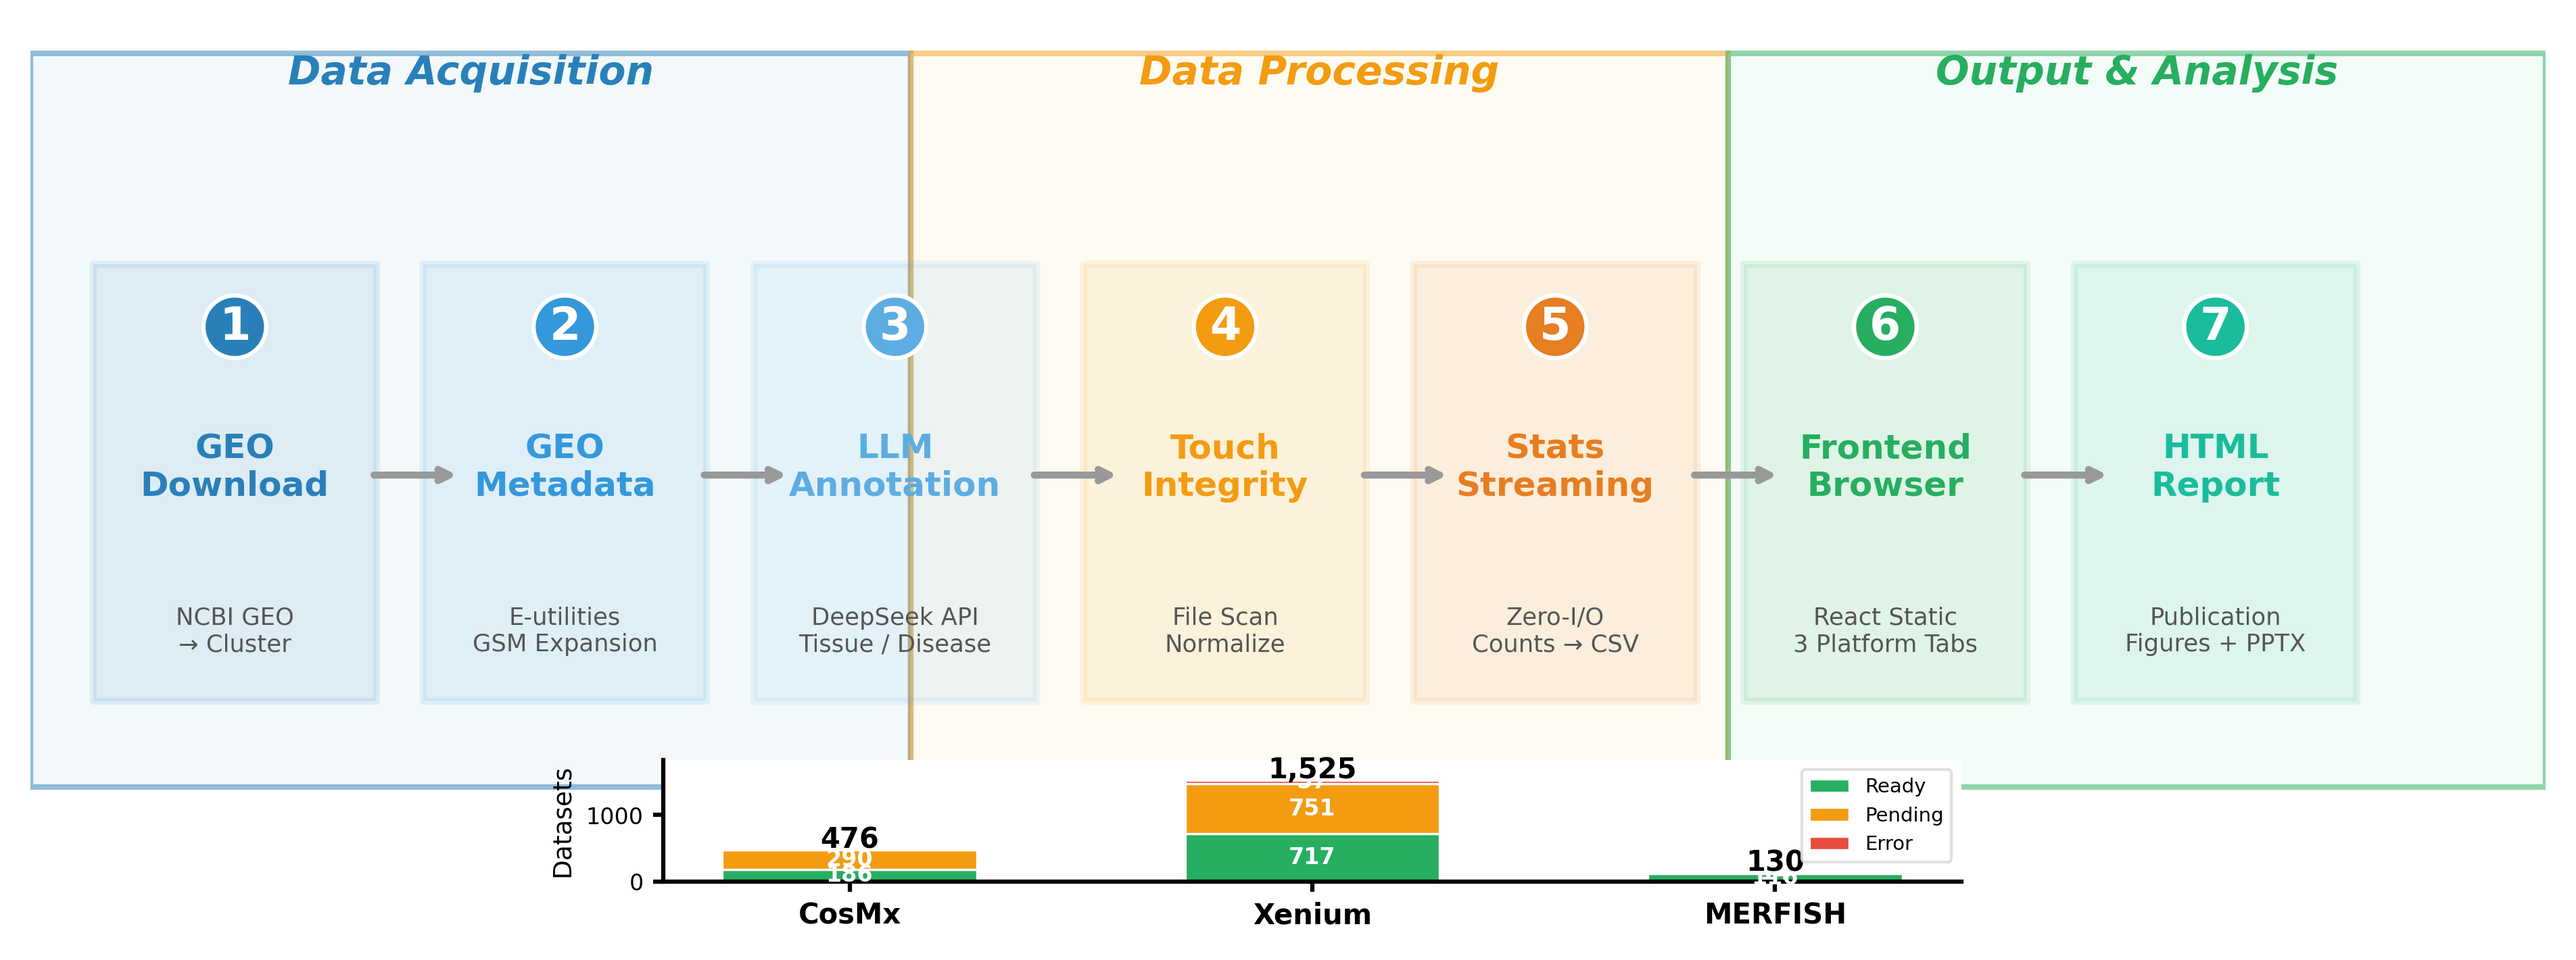
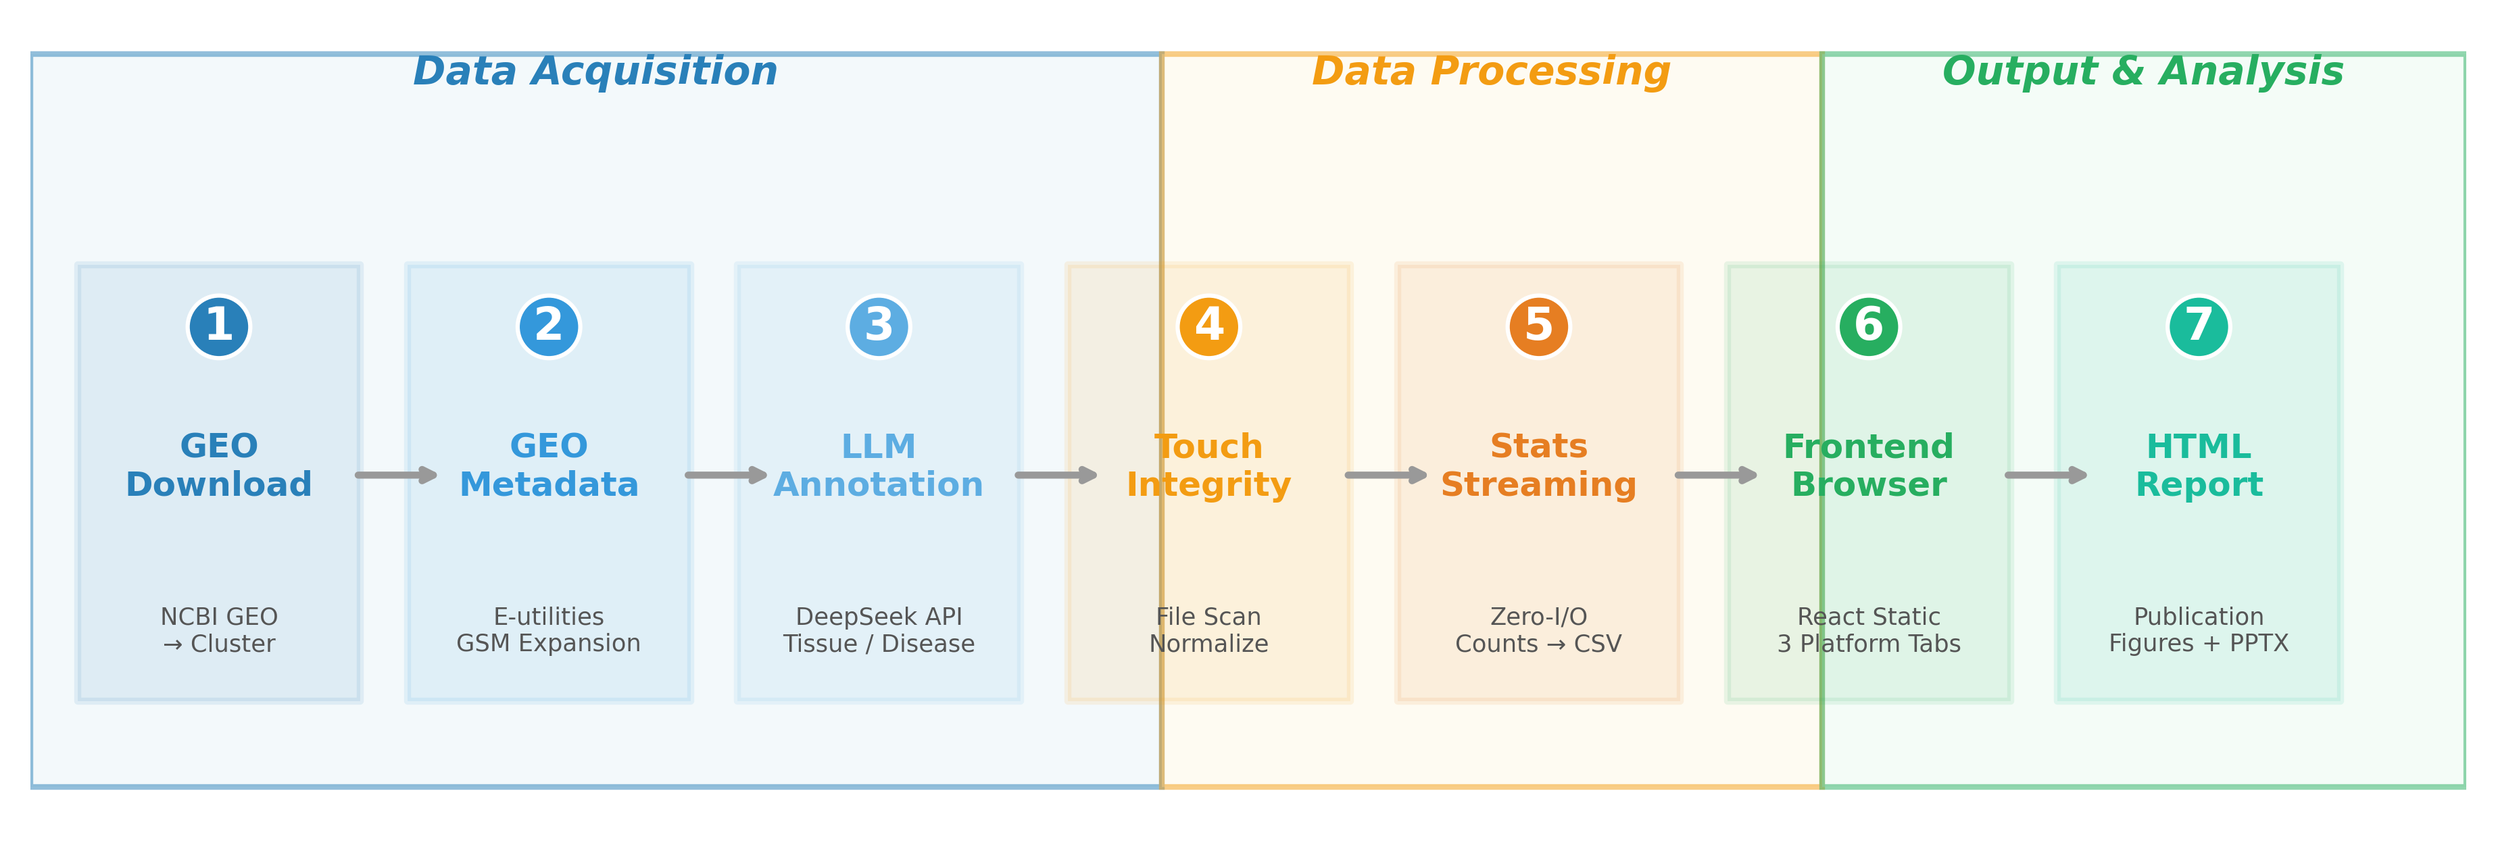
refactor: renumber figures 1-6, fix pipeline layout, vertical three modes
FIG 1: Fixed phase boundaries (Acquisition→step3, Processing→steps 4-5,
        Output→steps 6-7), removed bar inset, tightened right margin
FIG 2: Platform counts bar chart (moved from old fig1)
FIG 3: Three analysis modes (vertical layout, moved forward from old fig5)
FIG 4: File coverage heatmap (was fig2)
FIG 5: Tissue + Disease distribution (was fig3)
FIG 6: Violin plots (was fig4)

Clean up: removed duplicate orphan code that caused double execution

diff --git a/report/gen_poster_figures.py b/report/gen_poster_figures.py
@@ -57,15 +57,15 @@ def flt(v):
 # ═════════════════════════════════════════════════════════════════
 
 def fig1_platform_pipeline():
-    fig, ax = plt.subplots(figsize=(16, 5))
-    ax.set_xlim(0, 16); ax.set_ylim(0, 5)
+    fig, ax = plt.subplots(figsize=(15.5, 5))
+    ax.set_xlim(0, 15.5); ax.set_ylim(0, 5)
     ax.axis('off')
 
-    # ── 三个大阶段 ──
+    # ── 三个大阶段（Acquisition → 步骤3右侧, Processing → 步骤5右侧）──
     phases = [
-        (0, 5.6, 'Data Acquisition', '#e8f4f8', '#2980b9'),
-        (5.6, 10.8, 'Data Processing', '#fef9e7', '#f39c12'),
-        (10.8, 16, 'Output & Analysis', '#eafaf1', '#27ae60'),
+        (0, 7.2, 'Data Acquisition', '#e8f4f8', '#2980b9'),
+        (7.2, 11.4, 'Data Processing', '#fef9e7', '#f39c12'),
+        (11.4, 15.5, 'Output & Analysis', '#eafaf1', '#27ae60'),
     ]
     for x0, x1, label, bg, edge in phases:
         rect = plt.Rectangle((x0, 0.15), x1-x0, 4.7,
@@ -86,7 +86,7 @@ def fig1_platform_pipeline():
     ]
 
     for i, (num, title, desc, color) in enumerate(steps):
-        x = i * 2.1 + 0.4
+        x = i * 2.1 + 0.3
         rect = plt.Rectangle((x, 0.7), 1.8, 2.8, facecolor=color, alpha=0.10,
                              edgecolor=color, linewidth=2.5, zorder=2, joinstyle='round',
                              linestyle='-')
@@ -105,43 +105,152 @@ def fig1_platform_pipeline():
             ax.annotate('', xy=(x + 2.35, 2.15), xytext=(x + 1.75, 2.15),
                         arrowprops=dict(arrowstyle='->', color='#999', lw=2.5))
 
-    # ── 底部数据集计数小条形 ──
-    ax_inset = fig.add_axes([0.32, 0.04, 0.40, 0.12])
-    platforms = ['CosMx', 'Xenium', 'MERFISH']
-    x_vals = np.arange(len(platforms))
-    width = 0.55
-    bottom = np.zeros(3)
-    for status, color in [('ready','#27ae60'),('pending','#f39c12'),('error','#e74c3c')]:
-        vals = [sum(1 for r in all_data[p] if r.get('status','').strip()==status) for p in platforms]
-        bars = ax_inset.bar(x_vals, vals, width, bottom=bottom, color=color,
-                            edgecolor='white', linewidth=0.8)
-        for bar, v in zip(bars, vals):
-            if v > 0:
-                ax_inset.text(bar.get_x()+bar.get_width()/2, bar.get_y()+v/2, str(v),
-                              ha='center', va='center', fontsize=8, fontweight='bold', color='white')
-        bottom += vals
-    for i, p in enumerate(platforms):
-        total = len(all_data[p])
-        ax_inset.text(i, total + 30, f'{total:,}', ha='center', fontsize=10, fontweight='bold')
-    ax_inset.set_xticks(x_vals)
-    ax_inset.set_xticklabels(platforms, fontsize=10, fontweight='bold')
-    ax_inset.set_ylabel('Datasets', fontsize=9)
-    ax_inset.tick_params(axis='y', labelsize=8)
-    ax_inset.set_ylim(0, max(len(all_data[p]) for p in platforms) * 1.2)
-    ax_inset.legend(['Ready', 'Pending', 'Error'], fontsize=7, loc='upper right',
-                    framealpha=0.9, edgecolor='#ddd')
-    for spine in ['top','right']:
-        ax_inset.spines[spine].set_visible(False)
-
     fig.savefig(OUT / 'fig1_platform_pipeline.png', dpi=300)
     plt.close(fig)
     print('  ✅ fig1_platform_pipeline')
 
 # ═════════════════════════════════════════════════════════════════
-# FIG 2: 可选文件热图 — 海报用
+# FIG 2: 三平台数据集数量（原 fig1，顺延至此）
 # ═════════════════════════════════════════════════════════════════
 
-def fig2_file_coverage():
+def fig2_platform_counts():
+    fig, ax = plt.subplots(figsize=(8, 5.5))
+    platforms = ['CosMx', 'Xenium', 'MERFISH']
+    x = np.arange(len(platforms))
+    width = 0.55
+    bottom = np.zeros(3)
+
+    for status, color in [('ready','#27ae60'),('pending','#f39c12'),('error','#e74c3c')]:
+        vals = [sum(1 for r in all_data[p] if r.get('status','').strip()==status) for p in platforms]
+        bars = ax.bar(x, vals, width, bottom=bottom, color=color, edgecolor='white', linewidth=0.8)
+        for bar, v in zip(bars, vals):
+            if v > 0:
+                ax.text(bar.get_x()+bar.get_width()/2, bar.get_y()+v/2, str(v),
+                        ha='center', va='center', fontsize=13, fontweight='bold', color='white')
+        bottom += vals
+
+    for i, p in enumerate(platforms):
+        total = len(all_data[p])
+        ax.text(i, total + 40, f'{total:,}', ha='center', fontsize=18, fontweight='bold')
+        ax.text(i, total - 0.5, 'datasets', ha='center', fontsize=10, color='#555')
+
+    ax.set_xticks(x)
+    ax.set_xticklabels(platforms, fontsize=18, fontweight='bold')
+    ax.set_ylabel('Number of Datasets', fontsize=14)
+    ax.tick_params(axis='y', labelsize=12)
+    ax.set_ylim(0, max(len(all_data[p]) for p in platforms) * 1.15)
+    ax.legend(['Ready', 'Pending', 'Error'], fontsize=12, loc='upper right',
+              framealpha=0.9, edgecolor='#ddd')
+    fig.tight_layout()
+    fig.savefig(OUT / 'fig2_platform_counts.png')
+    plt.close(fig)
+    print('  ✅ fig2_platform_counts')
+
+# ═════════════════════════════════════════════════════════════════
+# FIG 3: 三种分析模式 — 纵向排列
+# ═════════════════════════════════════════════════════════════════
+
+def fig3_three_modes():
+    fig, ax = plt.subplots(figsize=(12, 8.5))
+    ax.set_xlim(0, 12); ax.set_ylim(0, 8.5)
+    ax.axis('off')
+
+    modes = [
+        {
+            'title': 'Pipeline Mode',
+            'subtitle': 'scverse-native 6-step analysis',
+            'color': '#3498db',
+            'y0': 5.8,
+            'steps': [
+                ('1', 'Denoise', 'basic / sparc'),
+                ('2', 'Patchify', 'grid / hex'),
+                ('3', 'Segment', 'fov_cell_id\n/ cellpose'),
+                ('4', 'Domain', 'spatial_leiden\n/ kmeans'),
+                ('5', 'Annotate', 'celltypist\n/ scrin'),
+                ('6', 'Spatial', "Moran's I\n/ Geary's C"),
+            ]
+        },
+        {
+            'title': 'Touch Mode',
+            'subtitle': 'File integrity & normalization',
+            'color': '#e67e22',
+            'y0': 3.0,
+            'steps': [
+                ('1', 'Scan', 'manifest compare'),
+                ('2', 'Report', 'required / optional'),
+                ('3', 'Normalize', 'GSM prefix rename'),
+                ('4', 'Export', 'CSV summary'),
+            ]
+        },
+        {
+            'title': 'Stats Mode',
+            'subtitle': 'Zero-I/O streaming statistics',
+            'color': '#27ae60',
+            'y0': 0.2,
+            'steps': [
+                ('1', 'Stream', 'read header / count'),
+                ('2', 'Aggregate', 'tx + cell + gene'),
+                ('3', 'Threshold', '50k cell safety'),
+                ('4', 'Export', 'CSV → GEO merge'),
+            ]
+        },
+    ]
+
+    for mode in modes:
+        y0 = mode['y0']
+        color = mode['color']
+        steps = mode['steps']
+        n = len(steps)
+
+        # ── 模式标题（左侧竖排区域）──
+        ax.text(0.5, y0 + 1.6, mode['title'], ha='center', va='center', fontsize=15,
+                fontweight='bold', color=color)
+        ax.text(0.5, y0 + 1.0, mode['subtitle'], ha='center', va='center',
+                fontsize=9, color='#777', style='italic')
+
+        # 模式标识色条
+        rect = plt.Rectangle((0.15, y0 - 0.1), 0.7, 2.6,
+                             facecolor=color, alpha=0.15,
+                             edgecolor=color, linewidth=2, zorder=2)
+        ax.add_patch(rect)
+
+        # ── 步骤方块（横向）──
+        for i, (num, title, desc) in enumerate(steps):
+            x = i * 1.7 + 1.3
+            rect = plt.Rectangle((x, y0 + 0.05), 1.5, 0.75,
+                                 facecolor=color, alpha=0.10,
+                                 edgecolor=color, linewidth=2, zorder=2)
+            ax.add_patch(rect)
+            # 编号圆圈
+            ax.text(x + 0.25, y0 + 0.42, num, ha='center', va='center', fontsize=11,
+                    fontweight='bold', color='white',
+                    bbox=dict(boxstyle='circle', facecolor=color, edgecolor='white',
+                              linewidth=1.5, pad=0.15))
+            ax.text(x + 0.8, y0 + 0.55, title, ha='left', va='center', fontsize=12,
+                    fontweight='bold', color=color)
+            ax.text(x + 0.8, y0 + 0.2, desc, ha='left', va='center', fontsize=8.5,
+                    color='#555')
+            # 箭头
+            if i < n - 1:
+                ax.annotate('', xy=(x + 1.7, y0 + 0.42),
+                            xytext=(x + 1.45, y0 + 0.42),
+                            arrowprops=dict(arrowstyle='->', color='#aaa', lw=2))
+
+        # ── 行间分隔线 ──
+        if mode != modes[-1]:
+            next_y0 = modes[modes.index(mode) + 1]['y0']
+            ax.axhline(y=next_y0 + 2.9, xmin=0.03, xmax=0.97,
+                       color='#ddd', linewidth=1.5, linestyle='--')
+
+    fig.savefig(OUT / 'fig3_three_modes.png', dpi=300)
+    plt.close(fig)
+    print('  ✅ fig3_three_modes')
+
+# ═════════════════════════════════════════════════════════════════
+# FIG 4: 可选文件热图 — 海报用
+# ═════════════════════════════════════════════════════════════════
+
+def fig4_file_coverage():
     # 跨平台统一文件类别（Cell/Nucleus Boundary 拆开）
     categories = [
         ('polygons',           ['polygons'],                        'Polygons'),
@@ -197,15 +306,15 @@ def fig2_file_coverage():
     cbar.set_label('Coverage (%)', fontsize=12)
     cbar.ax.tick_params(labelsize=10)
     fig.tight_layout()
-    fig.savefig(OUT / 'fig2_file_coverage.png')
+    fig.savefig(OUT / 'fig4_file_coverage.png')
     plt.close(fig)
-    print('  ✅ fig2_file_coverage')
+    print('  ✅ fig4_file_coverage')
 
 # ═════════════════════════════════════════════════════════════════
-# FIG 3: 组织分布 Top 10 — 海报用
+# FIG 5: 组织 + 疾病分布 Top 10 — 海报用
 # ═════════════════════════════════════════════════════════════════
 
-def fig3_tissue_dist():
+def fig5_tissue_dist():
     all_rows = cosmx + xenium + merfish
     ready = [r for r in all_rows if r.get('status','').strip()=='ready']
 
@@ -248,15 +357,15 @@ def fig3_tissue_dist():
         for s in ['top','right']: ax.spines[s].set_visible(False)
 
     fig.tight_layout()
-    fig.savefig(OUT / 'fig3_tissue_dist.png')
+    fig.savefig(OUT / 'fig5_tissue_dist.png')
     plt.close(fig)
-    print('  ✅ fig3_tissue_dist')
+    print('  ✅ fig5_tissue_dist')
 
 # ═════════════════════════════════════════════════════════════════
-# FIG 4: 跨平台小提琴图 — 海报用（转录本数 + 细胞数）
+# FIG 6: 跨平台小提琴图 — 海报用
 # ═════════════════════════════════════════════════════════════════
 
-def fig4_violins():
+def fig6_violins():
     import pandas as pd
     fields = [
         ('n_transcripts', 'Transcripts per Dataset', True),
@@ -301,101 +410,9 @@ def fig4_violins():
         ax.tick_params(axis='y', labelsize=12)
 
     fig.tight_layout()
-    fig.savefig(OUT / 'fig4_violins.png')
+    fig.savefig(OUT / 'fig6_violins.png')
     plt.close(fig)
-    print('  ✅ fig4_violins')
-
-# ═════════════════════════════════════════════════════════════════
-# FIG 5: Pipeline 流程图 — 海报用
-# ═════════════════════════════════════════════════════════════════
-
-def fig5_three_modes():
-    fig, ax = plt.subplots(figsize=(16, 5.5))
-    ax.set_xlim(0, 16); ax.set_ylim(0, 5.5)
-    ax.axis('off')
-
-    modes = [
-        {
-            'title': 'Pipeline Mode',
-            'subtitle': 'scverse-native 6-step analysis',
-            'x0': 0.3,
-            'color': '#3498db',
-            'steps': [
-                ('1', 'Denoise', 'basic / sparc'),
-                ('2', 'Patchify', 'grid / hex'),
-                ('3', 'Segment', 'fov_cell_id / cellpose'),
-                ('4', 'Domain', 'spatial_leiden / kmeans'),
-                ('5', 'Annotate', 'celltypist / scrin'),
-                ('6', 'Spatial', "Moran's I / Geary's C"),
-            ]
-        },
-        {
-            'title': 'Touch Mode',
-            'subtitle': 'File integrity & normalization',
-            'x0': 5.9,
-            'color': '#e67e22',
-            'steps': [
-                ('1', 'Scan', 'manifest compare'),
-                ('2', 'Report', 'required / optional'),
-                ('3', 'Normalize', 'GSM prefix rename'),
-                ('4', 'Export', 'CSV summary'),
-            ]
-        },
-        {
-            'title': 'Stats Mode',
-            'subtitle': 'Zero-I/O streaming statistics',
-            'x0': 10.8,
-            'color': '#27ae60',
-            'steps': [
-                ('1', 'Stream', 'read header / count'),
-                ('2', 'Aggregate', 'tx + cell + gene'),
-                ('3', 'Threshold', '50k cell safety'),
-                ('4', 'Export', 'CSV → GEO merge'),
-            ]
-        },
-    ]
-
-    for mode in modes:
-        x0 = mode['x0']
-        color = mode['color']
-        steps = mode['steps']
-        n = len(steps)
-
-        # ── 模式标题 ──
-        ax.text(x0 + 1.7, 4.8, mode['title'], ha='center', va='center', fontsize=16,
-                fontweight='bold', color=color)
-        ax.text(x0 + 1.7, 4.35, mode['subtitle'], ha='center', va='center',
-                fontsize=10, color='#777', style='italic')
-
-        # ── 步骤方块 ──
-        for i, (num, title, desc) in enumerate(steps):
-            y = 3.2 - i * 0.85
-            rect = plt.Rectangle((x0 + 0.1, y - 0.25), 3.2, 0.65,
-                                 facecolor=color, alpha=0.10,
-                                 edgecolor=color, linewidth=2, zorder=2)
-            ax.add_patch(rect)
-            # 编号圆圈
-            ax.text(x0 + 0.35, y, num, ha='center', va='center', fontsize=11,
-                    fontweight='bold', color='white',
-                    bbox=dict(boxstyle='circle', facecolor=color, edgecolor='white',
-                              linewidth=1.5, pad=0.15))
-            ax.text(x0 + 0.85, y, title, ha='left', va='center', fontsize=12,
-                    fontweight='bold', color=color)
-            ax.text(x0 + 2.0, y, desc, ha='center', va='center', fontsize=9,
-                    color='#555')
-            # 箭头
-            if i < n - 1:
-                ax.annotate('', xy=(x0 + 1.8, y - 0.85 + 0.3),
-                            xytext=(x0 + 1.8, y - 0.2),
-                            arrowprops=dict(arrowstyle='->', color='#aaa', lw=2))
-
-    # ── 模式间分隔线 ──
-    for sep_x in [5.5, 10.4]:
-        ax.axvline(x=sep_x, ymin=0.05, ymax=0.85, color='#ddd', linewidth=1.5, linestyle='--')
-
-    fig.savefig(OUT / 'fig5_three_modes.png', dpi=300)
-    plt.close(fig)
-    print('  ✅ fig5_three_modes')
+    print('  ✅ fig6_violins')
 
 # ═════════════════════════════════════════════════════════════════
 # 运行
@@ -404,8 +421,9 @@ def fig5_three_modes():
 if __name__ == '__main__':
     print('Generating poster-optimized figures...')
     fig1_platform_pipeline()
-    fig2_file_coverage()
-    fig3_tissue_dist()
-    fig4_violins()
-    fig5_three_modes()
+    fig2_platform_counts()
+    fig3_three_modes()
+    fig4_file_coverage()
+    fig5_tissue_dist()
+    fig6_violins()
     print(f'\nAll saved to {OUT}/')
